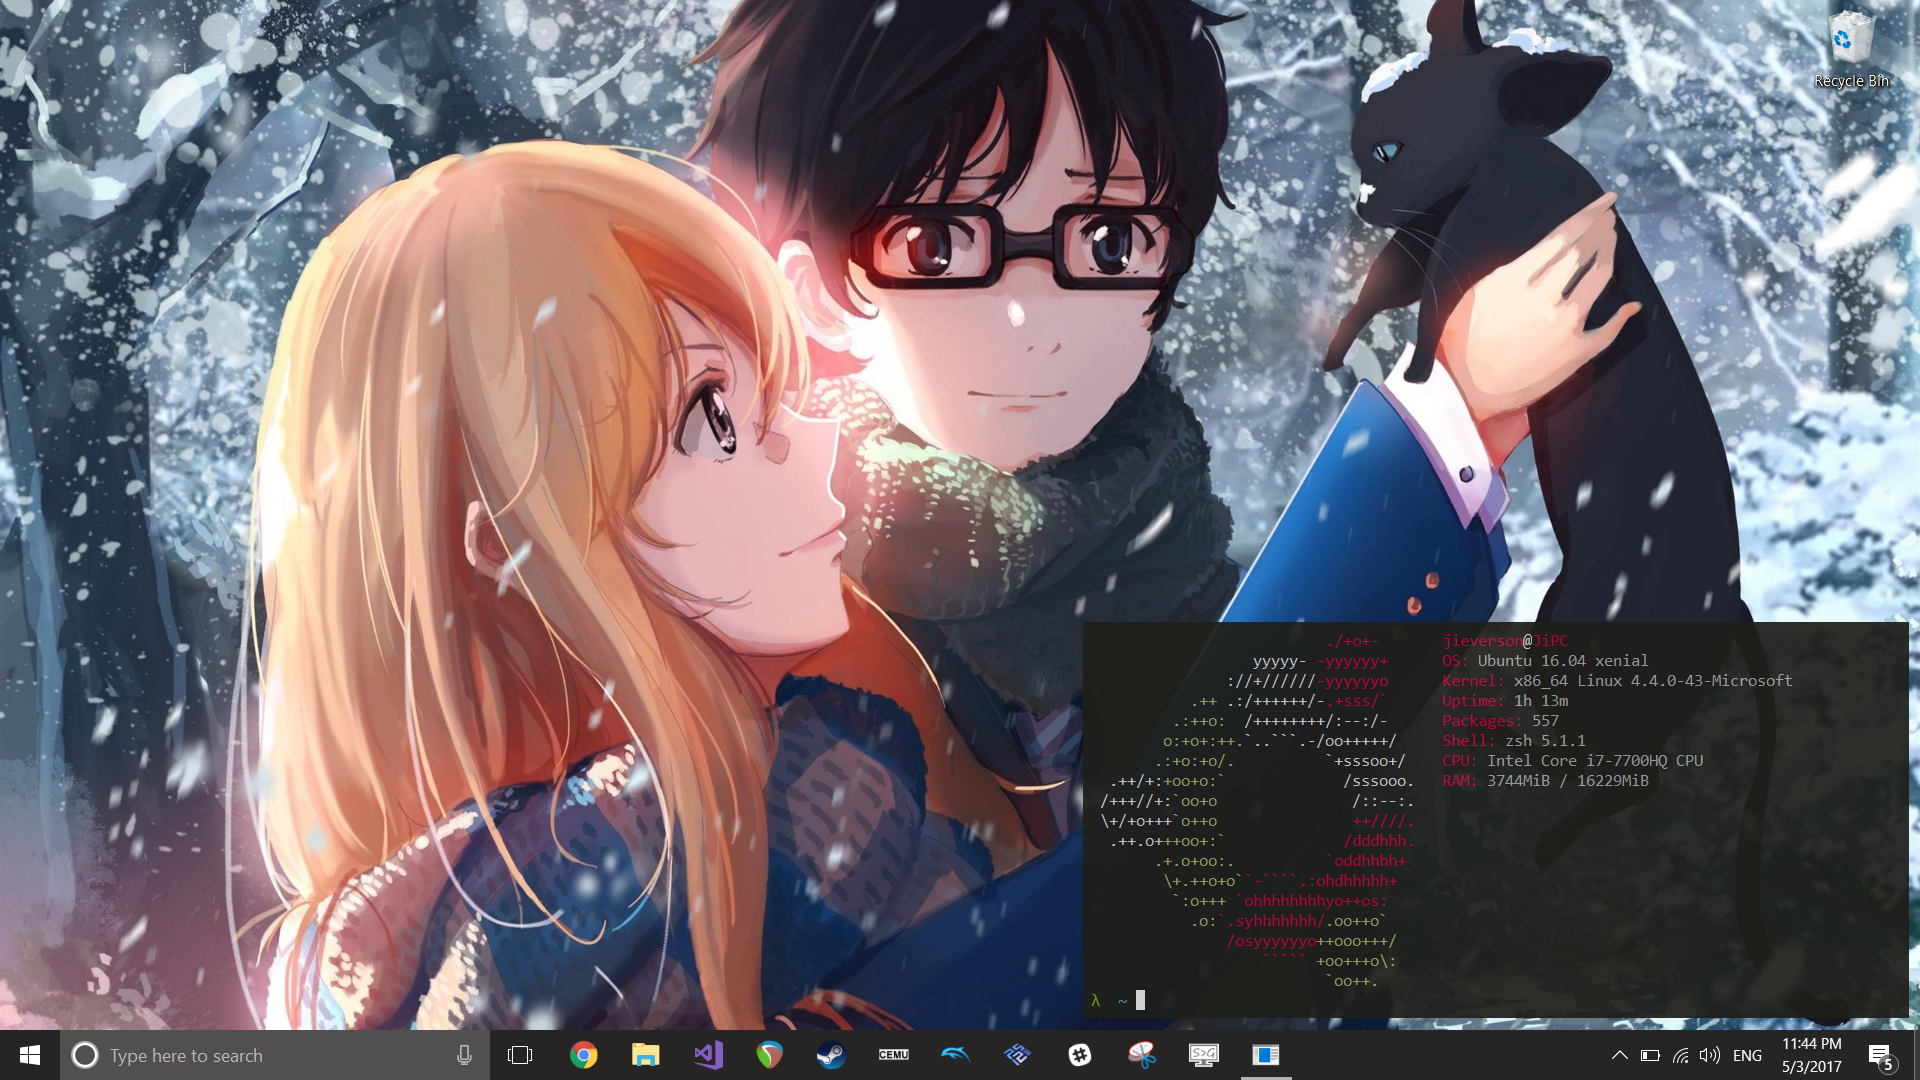
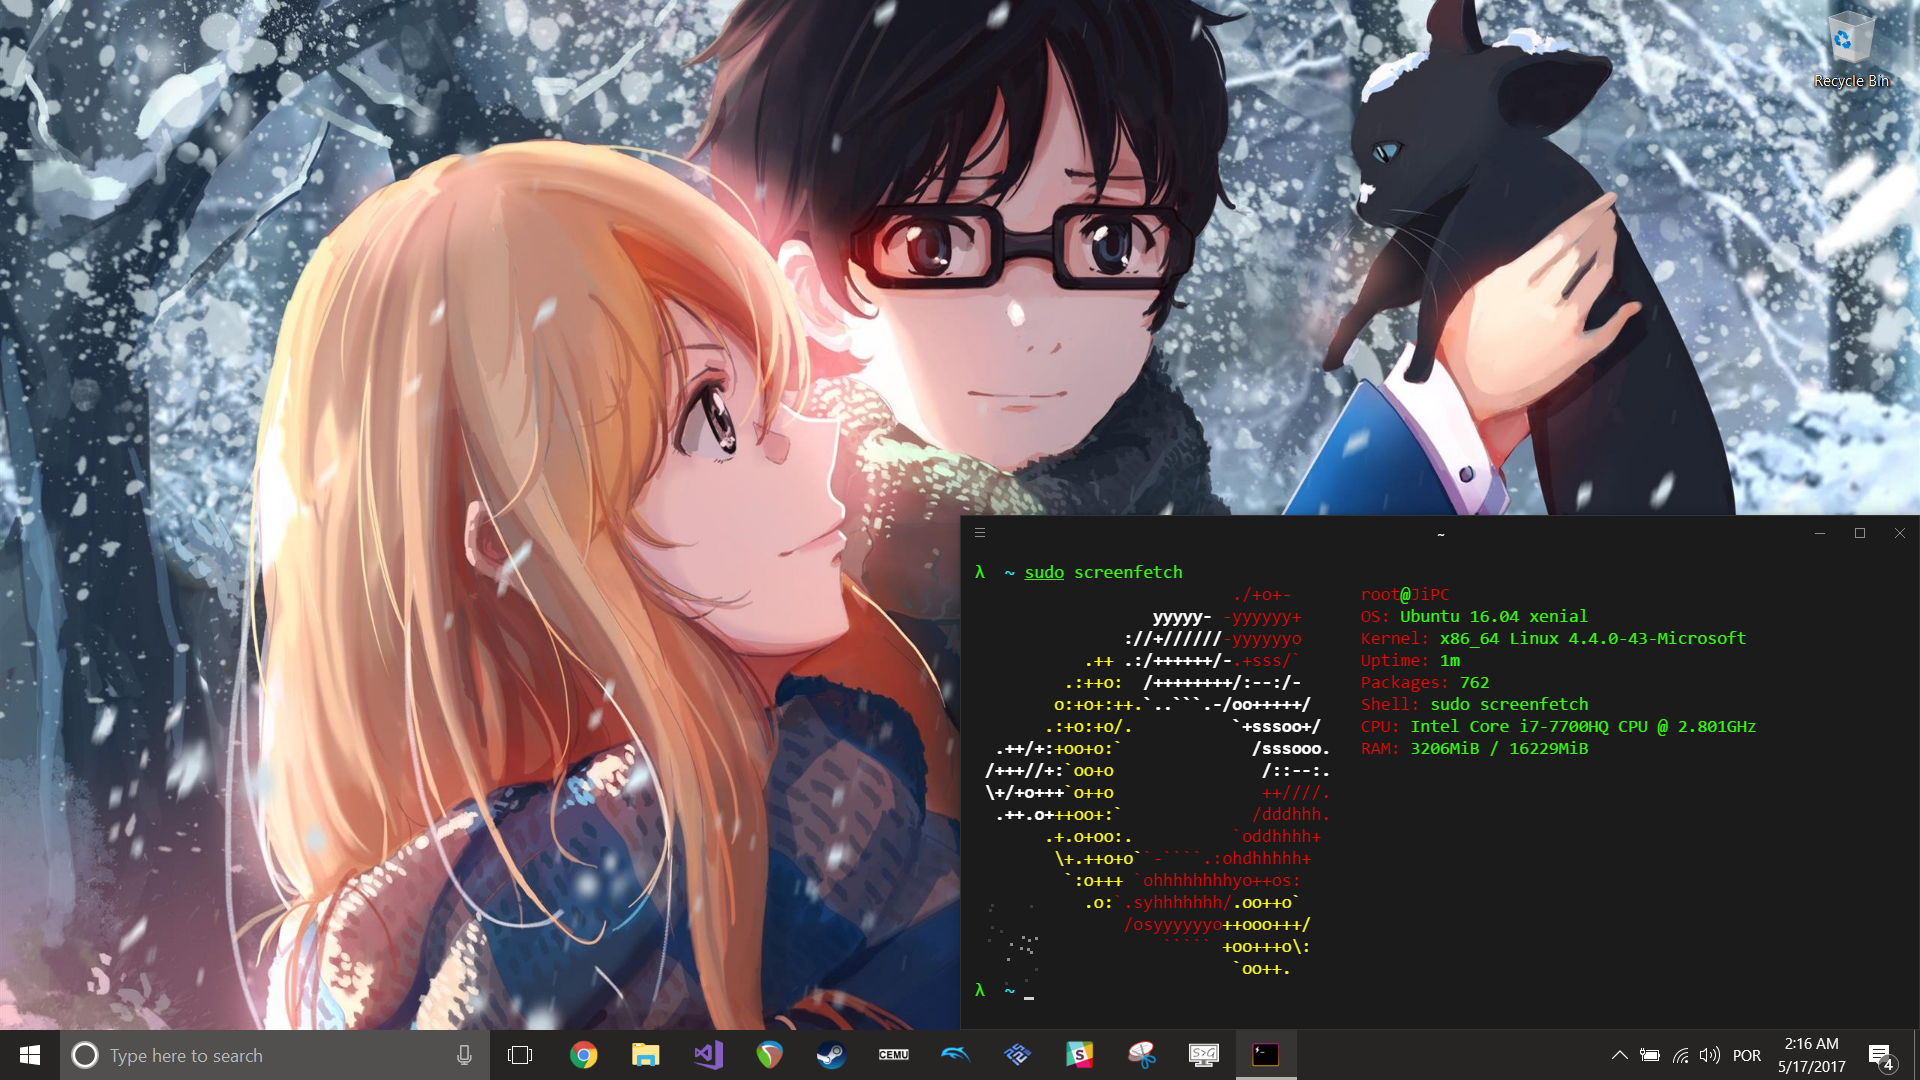
change Cmder to Hyper

Changed region(s): [[0.5, 0.4583, 1.0, 1.0], [0.9375, 0.0, 0.9688, 0.0611]]

diff --git a/.hyper.js b/.hyper.js
@@ -5,7 +5,7 @@
 module.exports = {
   config: {
     // default font size in pixels for all tabs
-    fontSize: 20,
+    fontSize: 18,
 
     // font family with optional fallbacks
     fontFamily: 'Menlo, "DejaVu Sans Mono", Consolas, "Lucida Console", monospace',

diff --git a/README.md b/README.md
@@ -18,13 +18,13 @@ To keep up to date, you can just `pull` this repo, and re-run `install.sh`.
   <img src="screenshots/screenfetch.png" />
 </p>
 <p align="center">
-  <img src="screenshots/hyper.gif" />
-</p>
-<p align="center">
-  <img src="screenshots/consoles.png" />
+  <img src="screenshots/fun.png" />
 </p>
 <p align="center">
   <img src="screenshots/working.png" />
+</p>
+<p align="center">
+  <img src="screenshots/lol.gif" />
 </p>
 
 > **Windows Wallpaper for 4k resolution:** [./wallpaper.jpg](https://rawgit.com/jieverson/dotfiles-win/master/wallpaper.jpg)
@@ -32,5 +32,6 @@ To keep up to date, you can just `pull` this repo, and re-run `install.sh`.
 ### About My Terminal Emulator
 
 As you can see at screenshots, I'm not using Windows default console emulator.
-I'm using [Cmder](http://cmder.net/) ([GitHub Repo](https://github.com/cmderdev/cmder)).
-It's a customizable Windows Console Emulator and my settings can be found at [./cmder/config/ConEmu.xml](https://rawgit.com/jieverson/dotfiles-win/master/cmder/config/ConEmu.xml).
+I'm using [Hyper](https://hyper.is). It's a customizable Terminal Emulator built in js. My settings can be found at [.hyper.js](https://rawgit.com/jieverson/dotfiles-win/master/.hyper.js).
+
+> I've been using [Cmder](http://cmder.net/) ([GitHub Repo](https://github.com/cmderdev/cmder)) in the past, and my settings can be found at [./cmder/config/ConEmu.xml](https://rawgit.com/jieverson/dotfiles-win/master/cmder/config/ConEmu.xml).
